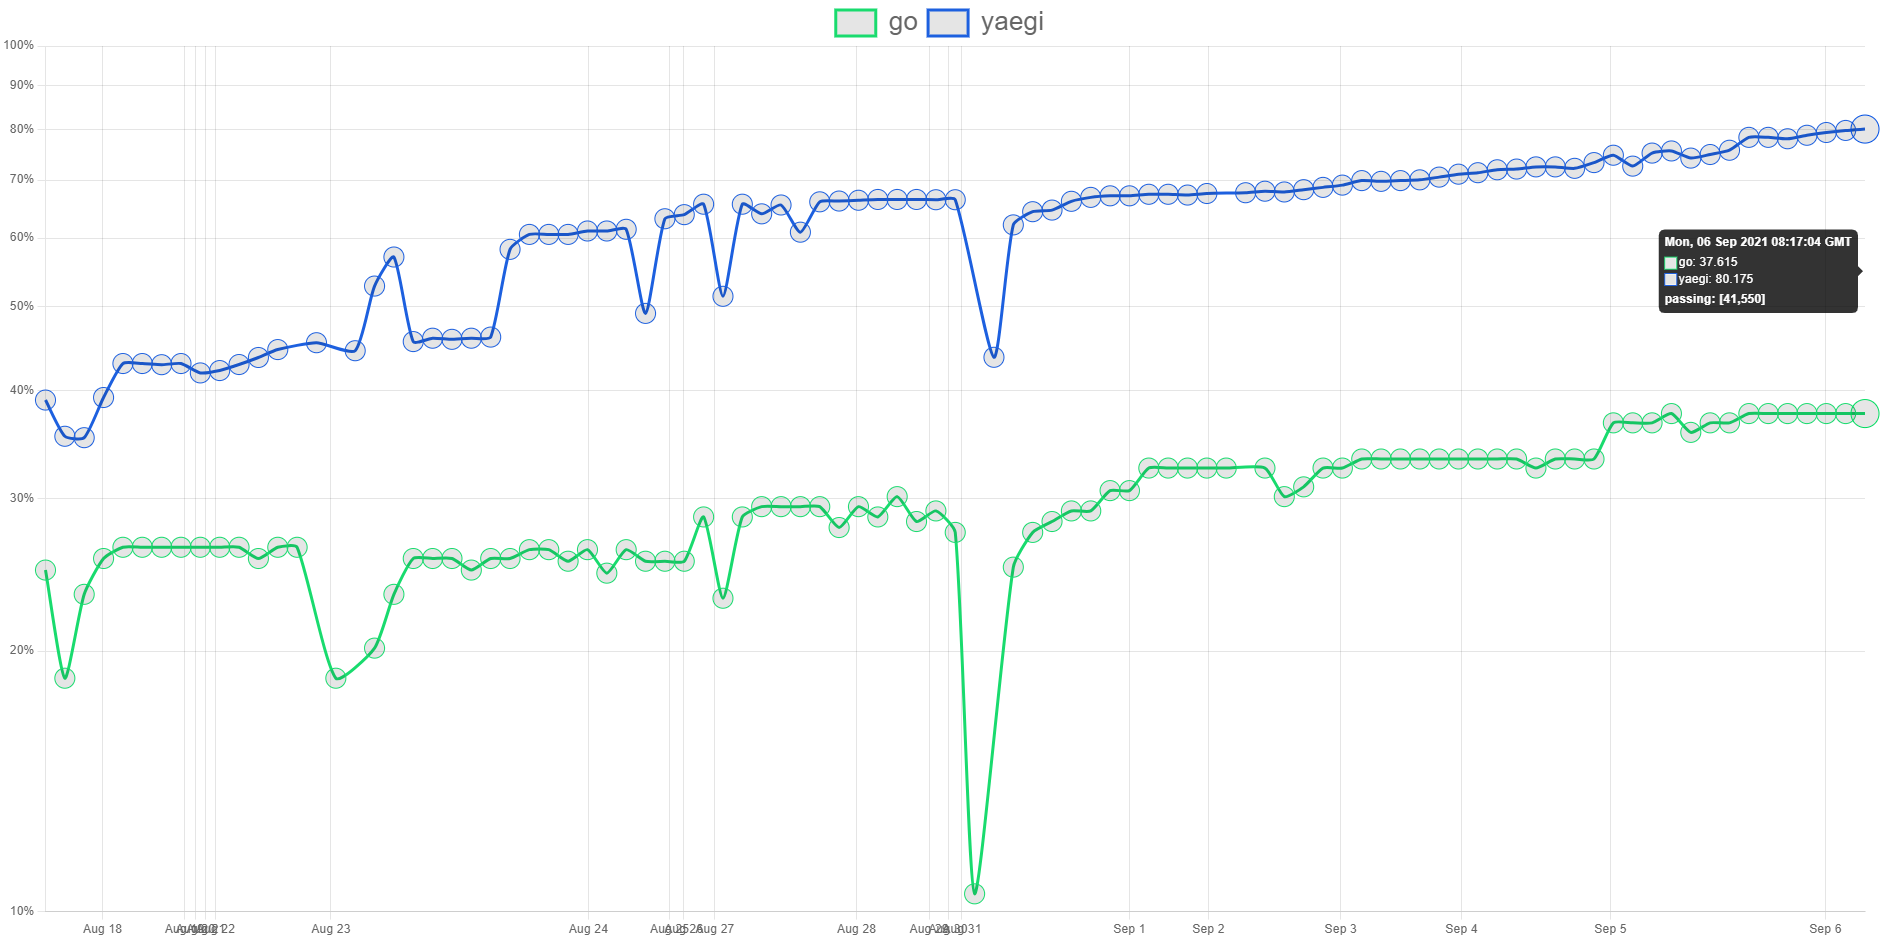
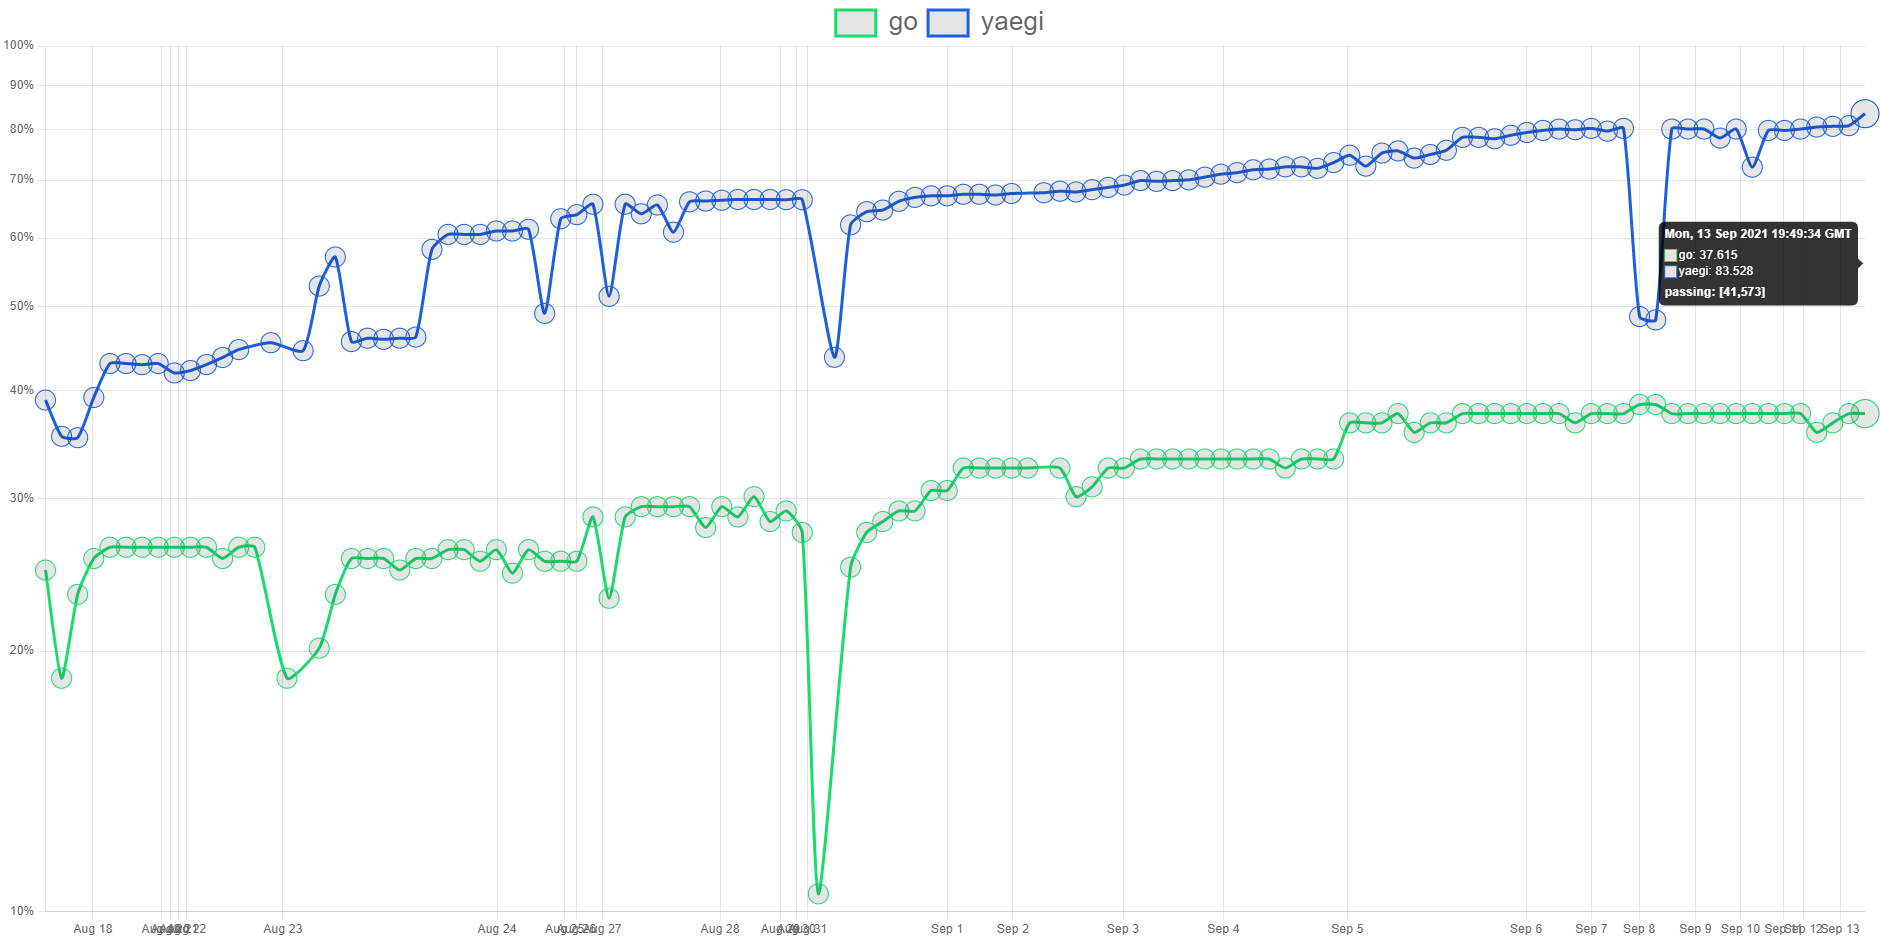
update graph and link to interactive graph

diff --git a/README.MD b/README.MD
@@ -23,7 +23,7 @@ haxelib run go2hx ./main.go
 
 *Shows percentage of tests passing out of total*
 
-<img src="graph.png" align="center"/></p>
+<a href="https://go2hx.github.io/test883"><img src="graph.png" align="center"/></p></a>
 
 # Language features
 
